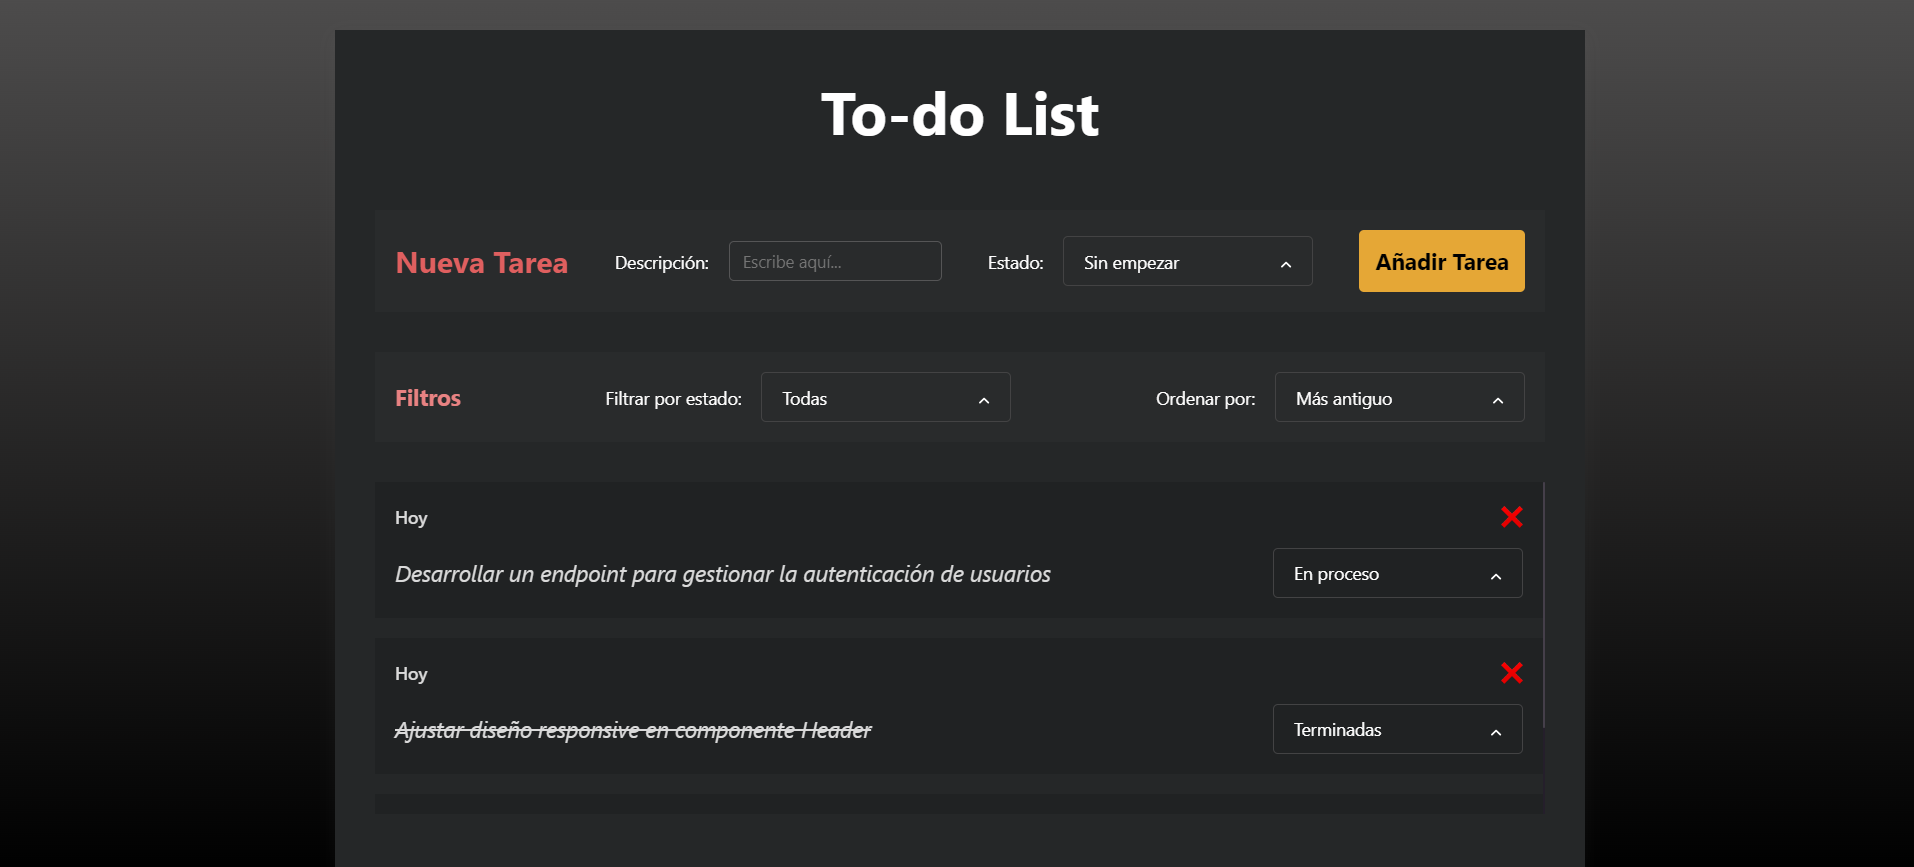
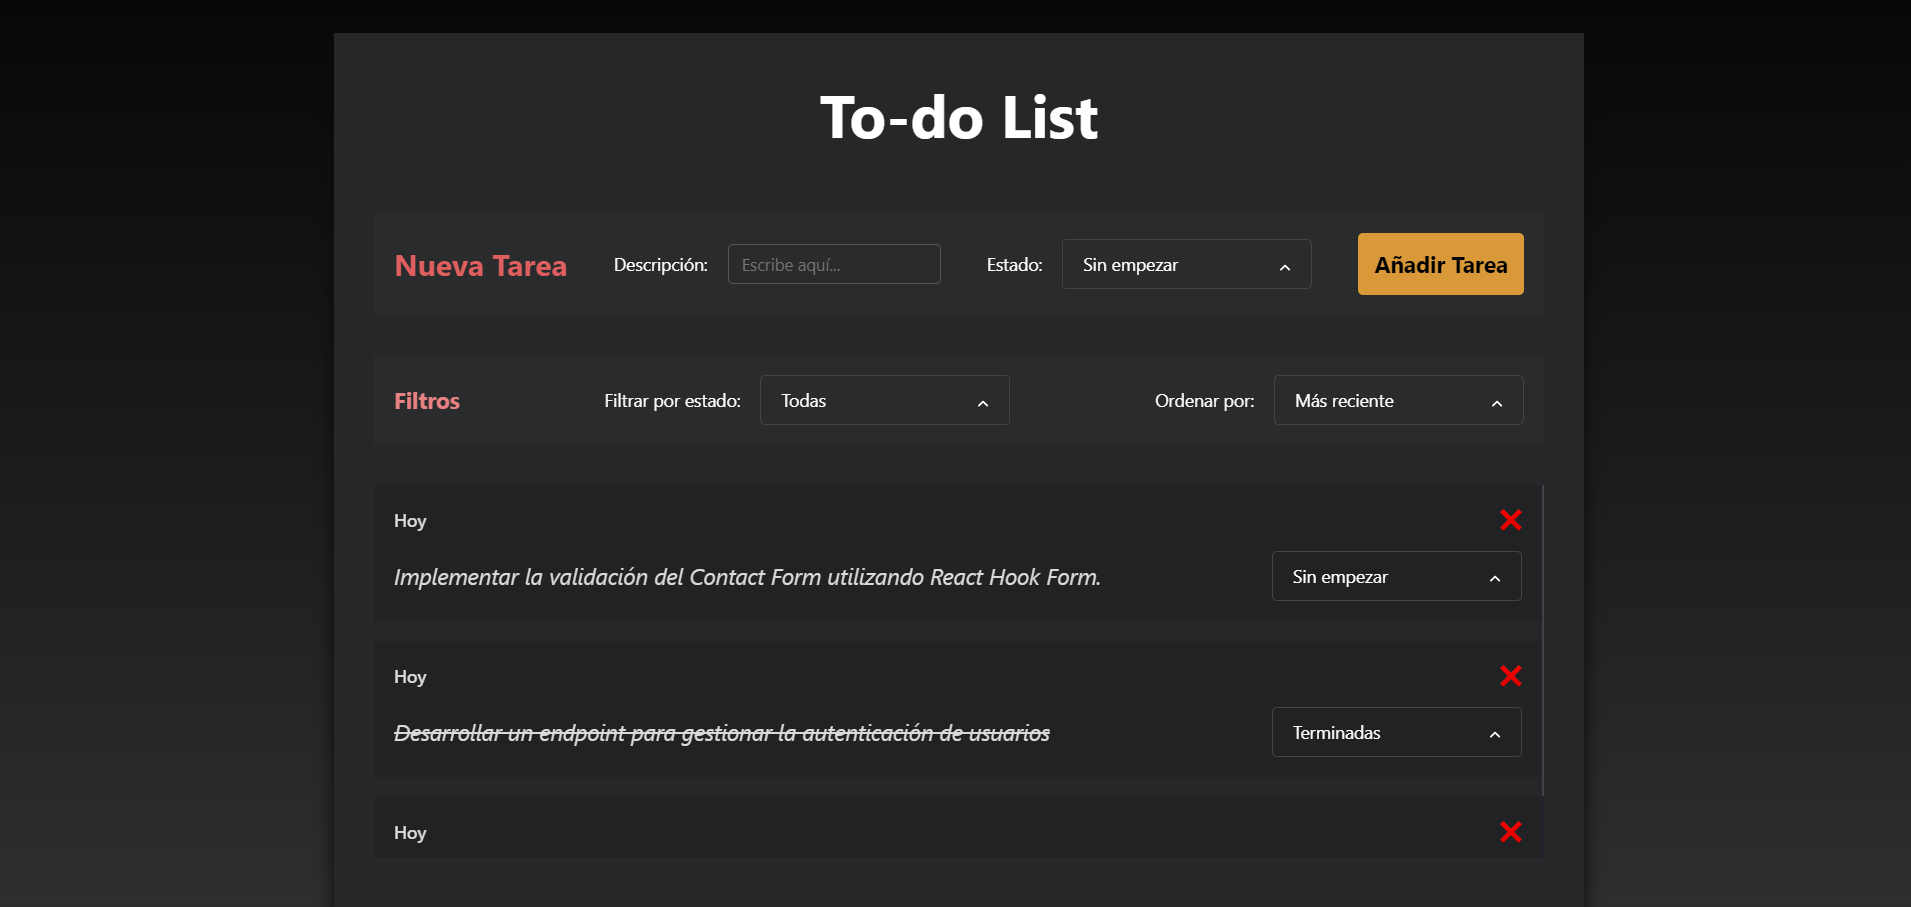
Adjust background-color

diff --git a/src/app/app.component.scss b/src/app/app.component.scss
@@ -11,7 +11,7 @@
   padding: 2rem;
   background-color: #252728;
   border: none;
-  box-shadow: 0px 4px 15px 0px rgba(180, 180, 180, 0.05);
+  box-shadow: 0px 4px 15px 0px rgb(10, 10, 10);
   border-bottom: none;
   color: #fff;
 

diff --git a/src/styles.scss b/src/styles.scss
@@ -8,6 +8,6 @@
 }
 
 body {
-  background: linear-gradient(to top, #000, #4d4c4c);
+  background: linear-gradient(to bottom, #070707, #2f2f2f);
   height: 100vh;
 }
